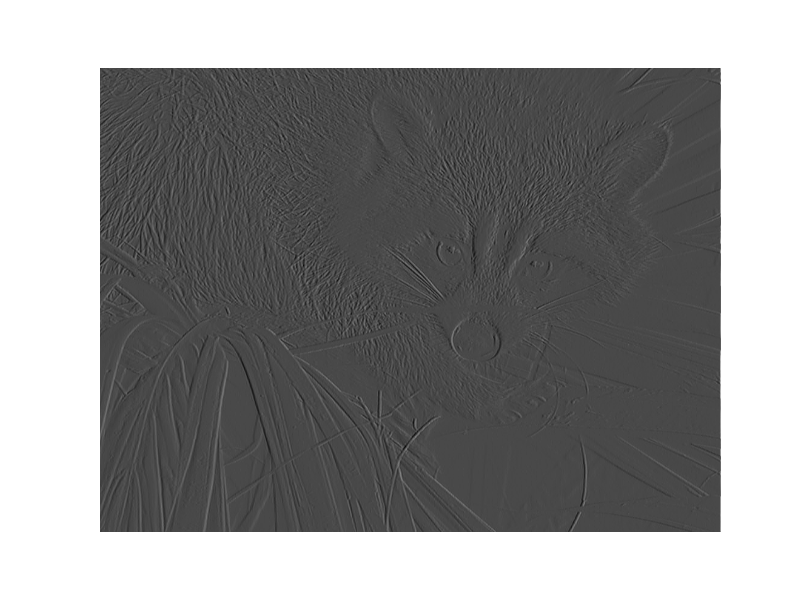
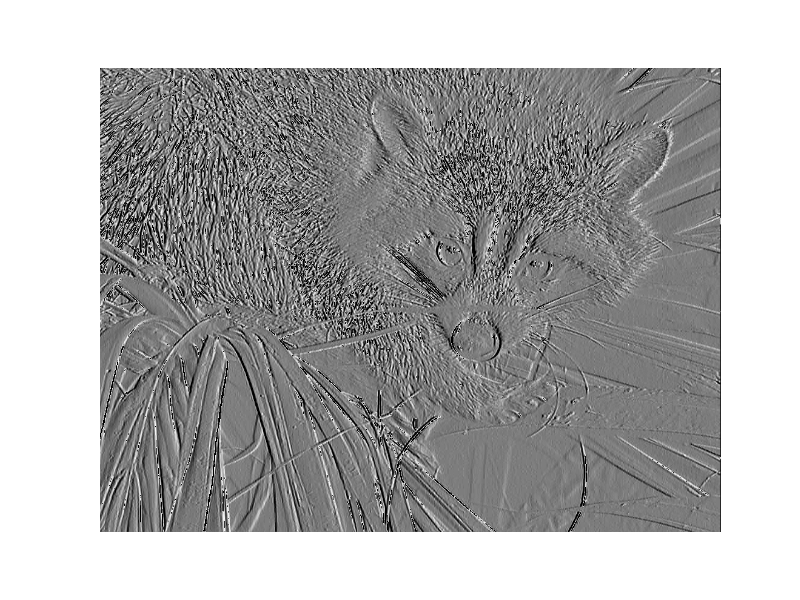
thesis updates

diff --git a/tex/thesis/3_ml.tex b/tex/thesis/3_ml.tex
@@ -49,7 +49,7 @@ combat label noise from crowds.
     \subsection{Logistic Regression}
     \label{sec:logistic-regression}
 
-        Logistic regression is a simple linear model of binary classification.
+        Logistic regression is a simple linear model of binary classification \citep{bishop06}.
         The conditional distribution $p(z \mid \vec x)$ is modelled as
         \[
             y(\vec x) = p(z = 1 \mid \vec x) = \sigma(\vec w^T \vec x + b),
@@ -78,7 +78,7 @@ combat label noise from crowds.
 
         The loss function represents how well the current model fits the
         observations. For binary classification, this is usually given by the
-        \emph{cross-entropy error}
+        \emph{cross-entropy error} \citep{bishop06}
         \[
             L(\vec w) = -\frac{1}{N} \sum_{\vec x, z \in \mathcal D} \left(
                 z \log y(\vec x) + (1 - z) \log (1 - y(\vec x))
@@ -87,7 +87,7 @@ combat label noise from crowds.
         with gradient
         \[
             \nabla L(\vec w) = -\frac{1}{N}
-                \sum_{\vec x, z \in \mathcal D} \left(z - y(\vec x)\right).
+                \sum_{\vec x, z \in \mathcal D} \left(z - y(\vec x)\right) \vec x.
         \]
 
     \subsection{Neural Networks}
@@ -382,8 +382,8 @@ combat label noise from crowds.
                 convolutional layers of the neural network, from left to right,
                 top to bottom. Colours represent convolutions with different
                 filters. The output, bottom-right, is a higher-level
-                representation of the input image, and its values can be used as
-                inputs for classification. This figure uses
+                representation of the input image, and its values can be used
+                as inputs for classification. This figure uses
                 \citeauthor{baraldi15}'s implementation of the VGG-16 CNN
                 \citep{simoyan14}.}
             \label{fig:face-cnn}
@@ -434,7 +434,7 @@ combat label noise from crowds.
         different labellers may be better skilled at labelling different kinds
         of examples, some examples may be intrinsically hard for non-experts to
         label, and labellers may even be actively malicious in giving incorrect
-        labels.
+        labels \citep{yan11}.
 
         \todo{Rewrite and extend}
 
@@ -520,8 +520,8 @@ combat label noise from crowds.
     % using labels where the groundtruth doesn't exist. I should write about
     % that.
 
-    In crowd learning scenarios, it is common to have multiple labels for a data
-    point with no known groundtruth.
+    In crowd learning scenarios, it is common to have multiple labels for a
+    data point with no known groundtruth.
 
     \todo{extend}
 
@@ -548,8 +548,8 @@ combat label noise from crowds.
 
         The idea is that the majority of labels are correct, so with
         sufficiently large amounts of relabelling we expect the label noise to
-        be reduced. How large ``sufficiently large'' is is unclear and domain-
-        dependent, and is outside the scope of this thesis, though papers like
+        be reduced. How large ``sufficiently large'' is is unclear and
+        domain-dependent, and is outside the scope of this thesis, though
         \citet{sheng08} and \citet{lin16} provide some information on how to
         choose relabelling rates. Of course, this fails in situations where the
         majority of labellers are not correct, which may be due to intrinsic
@@ -669,7 +669,7 @@ combat label noise from crowds.
                 \centering
                 \includegraphics[width=\textwidth]{images/experiments/raykar.pdf}
                 \caption{Performance of the \citeauthor{raykar10} classifier against
-                    logistic regression on a simulated crowd labelling of the breast
+                    logistic regression (LR) on a simulated crowd labelling of the breast
                     cancer dataset \citep{wolberg90}.}
                 \label{fig:raykar}
             \end{figure}
@@ -735,7 +735,7 @@ combat label noise from crowds.
             labels were used to train the algorithm. The balanced accuracy and
             $\alpha$ values were recorded. This experiment was repeated $5$ times,
             and repeated again with $\beta$ replacing $\alpha$. The results are
-            shown in Figure
+            shown in Figure \ref{fig:raykar-noise}.
 
             \begin{figure}[!ht]
                 \centering

diff --git a/crowdastro/experiment/experiment_convolve_face.py b/crowdastro/experiment/experiment_convolve_face.py
@@ -10,6 +10,7 @@ import matplotlib.ticker as ticker
 import numpy
 import scipy.misc
 import scipy.signal
+import skimage.exposure
 
 face = scipy.misc.face(gray=True)
 filter_ = numpy.array([[-1, 1, 0],
@@ -28,6 +29,8 @@ ax.get_yaxis().set_visible(False)
 
 # Filtered
 ax = fig.add_axes([0.55, 0.30, 0.40, 0.60], frame_on=False)
+p2, p98 = numpy.percentile(filtered, (2, 98))
+filtered = skimage.exposure.rescale_intensity(filtered, in_range=(p2, p98))
 ax.imshow(filtered, cmap='gray')
 ax.get_xaxis().set_visible(False)
 ax.get_yaxis().set_visible(False)
